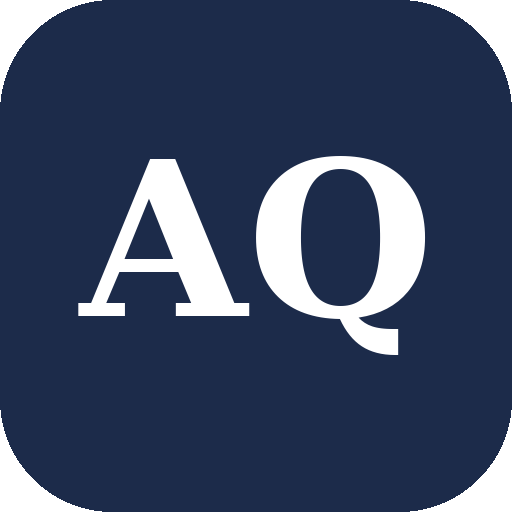
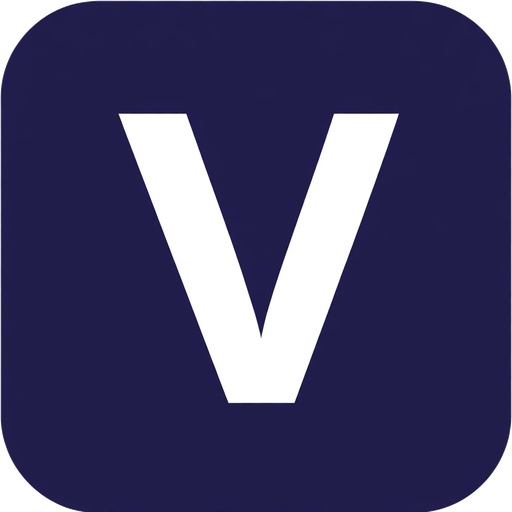
Add files via upload

diff --git a/index.html b/index.html
@@ -7,13 +7,17 @@ window.onerror = function(msg, url, line, col, error) {
   return true;
 };
 </script>
+<script>
+/* Single place for the product name. Change here, not in the text below. */
+window.BRAND = { name: "VeniXtus", legal: "VENIXTUS (Pty) Ltd", mark: "V", address: "32 Hill Street, Ferndale, Randburg, 2194", supportEmail: "Support@auditqmspro.com" /* change to the new domain when it is live */ };
+</script>
 <meta charset="UTF-8" />
 <meta name="viewport" content="width=device-width, initial-scale=1.0" />
-<title>AuditQMS Pro Suite</title>
+<title>VeniXtus</title>
 <link rel="manifest" href="manifest.json">
 <link rel="icon" type="image/png" sizes="32x32" href="favicon-32.png">
 <link rel="apple-touch-icon" href="apple-touch-icon.png">
-<meta name="apple-mobile-web-app-title" content="AuditQMS Pro Suite">
+<meta name="apple-mobile-web-app-title" content="VeniXtus">
 <meta name="apple-mobile-web-app-capable" content="yes">
 <meta name="theme-color" content="#1c2b4a">
 <link rel="preconnect" href="https://fonts.googleapis.com">
@@ -27,7 +31,7 @@ window.onerror = function(msg, url, line, col, error) {
 /* ==========================================================================
    ohs-core.css
    Styling for OHS Act module (HIRA + Permit to Work) modals.
-   Palette pulled from the AuditQMS Pro Suite dashboard screenshot:
+   Palette pulled from the VeniXtus dashboard screenshot:
      cream background, navy header/headings, rust/brown accents,
      serif display font, thin tan borders, pill-style secondary buttons.
    Link this in <head>, after your main styles.css.
@@ -2521,7 +2525,7 @@ async function samMakePdf(r){
   const doc = new J({unit:'pt', format:'a4'}), who = (currentUser()&&currentUser().fullName)||'Unknown user', when = new Date();
   doc.setFontSize(14); doc.text('SAMRASS data sheet — '+(r.formType||'Report'), 40, 44);
   doc.setFontSize(8.5); doc.setTextColor(150,30,30);
-  doc.text('Prepared from the AuditQMS Pro Suite record. NOT the official DMRE form: transcribe onto, or attach to, the current official form.', 40, 60, {maxWidth:515});
+  doc.text('Prepared from the VeniXtus record. NOT the official DMRE form: transcribe onto, or attach to, the current official form.', 40, 60, {maxWidth:515});
   doc.setTextColor(0,0,0);
   const sec = (t,rows)=>{ const body = rows.filter(x=>x[1]!==undefined && x[1]!==null && String(x[1]).trim()!=='').map(x=>[x[0],String(x[1])]); if(!body.length) return; doc.autoTable({startY:(doc.lastAutoTable?doc.lastAutoTable.finalY+10:76), head:[[t,'']], body, theme:'grid', styles:{fontSize:8.5,cellPadding:3}, headStyles:{fillColor:[40,60,90]}, columnStyles:{0:{cellWidth:150,fontStyle:'bold'}}, margin:{left:40,right:40}}); };
   sec('Identification',[['Record ID',r.id],['Internal reference',r.internalRef],['Form type',r.formType],['Stage',r.status],['Mine / shaft / section',r.mineSection]]);
@@ -5134,7 +5138,7 @@ function renderCapaApprovalTab(){
 }
 
 /* ==========================================================================
-   AuditQMS Pro Suite â€” CAPA CONSOLIDATION BLOCK
+   VeniXtus â€” CAPA CONSOLIDATION BLOCK
    --------------------------------------------------------------------------
    Paste this AFTER your existing "CAPA Approval & Appeal Workflow" section.
 
@@ -7678,8 +7682,8 @@ function migrateAuditNumbers(){
 function ensureStateDefaults(){
   if(!state.companySettings){
     state.companySettings = {
-      name: "AuditQMS Pro Suite (Pty) Ltd",
-      address: "12 Pretoria Road, Kempton Park, 1619",
+      name: BRAND.legal,
+      address: BRAND.address,
       email: "Support@auditqmspro.com",
       footerText: "",
       logoDataUrl: "",
@@ -7687,9 +7691,11 @@ function ensureStateDefaults(){
     };
   }
   if(state.companySettings && state.companySettings.name === "SYDA MABEKA (PTY) LTD"){
-    state.companySettings.name = "AuditQMS Pro Suite (Pty) Ltd";
-    state.companySettings.address = "12 Pretoria Road, Kempton Park, 1619";
+    state.companySettings.name = BRAND.legal;
+    state.companySettings.address = BRAND.address;
   }
+  if(state.companySettings.address === "12 Pretoria Road, Kempton Park, 1619"){ state.companySettings.address = BRAND.address; }
+  if(state.companySettings.name === "AuditQMS Pro Suite (Pty) Ltd"){ state.companySettings.name = BRAND.legal; }
   if(!state.companySettings.email){ state.companySettings.email = "Support@auditqmspro.com"; }
   if(state.companySettings.nextManagementReviewDate===undefined){ state.companySettings.nextManagementReviewDate = ""; }
   if(!state.riskAssessments){ state.riskAssessments = []; }
@@ -9865,10 +9871,10 @@ function renderLoginScreen(){
     <div style="min-height:100vh;display:flex;align-items:center;justify-content:center;padding:20px;background:var(--bg,#f6f3ee);">
       <div class="card p4" style="max-width:400px;width:100%;">
         <div style="text-align:center;margin-bottom:18px;">
-          <div class="logo" style="margin:0 auto 10px;">AQ</div>
-          <h1 class="serif" style="font-size:20px;margin:0;">AuditQMS Pro Suite</h1>
+          <div class="logo" style="margin:0 auto 10px;">V</div>
+          <h1 class="serif" style="font-size:20px;margin:0;">VeniXtus</h1>
           <p class="muted-italic" style="font-size:12px;margin-top:2px;">${title}</p>
-          ${cloudReady() ? `<p class="muted-italic" style="font-size:11px;margin-top:4px;">🔒 Secured by Supabase Auth</p>` : ''}
+          
         </div>
         ${loginError ? `<div class="card p4" style="background:#fdecea;border-color:var(--rust);margin-bottom:12px;"><p style="color:var(--rust);font-size:13px;margin:0;">${esc(loginError)}</p></div>` : ''}
         ${cloudReady() && cloudStatus ? `<div class="card p4" style="background:${cloudStatus.startsWith('⚠')?'#fdecea':'#e8f5e9'};margin-bottom:12px;"><p style="font-size:13px;margin:0;">${esc(cloudStatus)}</p></div>` : ''}
@@ -10160,8 +10166,8 @@ function render(){
       <header>
         <div class="wrap headrow">
           <div class="brand">
-            <div class="logo">AQ</div>
-            <div><h1>AuditQMS Pro Suite</h1><p>Integrated SHEQ Management Platform</p></div>
+            <div class="logo">V</div>
+            <div><h1>VeniXtus</h1><p>Integrated SHEQ Management Platform</p></div>
           </div>
           <div style="display:flex;align-items:center;gap:10px;flex-wrap:wrap;">
             ${CLIENT_WORKSPACES_ENABLED
@@ -14528,7 +14534,7 @@ function renderQualityCycle(){
     {icon:"📋", tag:"PLAN", title:"New Audit Plan — Cycle Starts Again", items:[]}
   ];
   return `
-    <h2 class="serif" style="font-size:18px;margin:0 0 6px;">AuditQMS Pro Suite — Continuous Improvement Cycle</h2>
+    <h2 class="serif" style="font-size:18px;margin:0 0 6px;">VeniXtus — Continuous Improvement Cycle</h2>
     <p class="muted-italic" style="font-size:12px;margin:0 0 16px;">The Plan–Do–Check–Act (PDCA) loop this app is built around.</p>
     <div>
       ${stages.map((s,i)=>`
@@ -14565,9 +14571,9 @@ function renderQualityCycle(){
 /* ---------- settings ---------- */
 const SETTINGS_SECTIONS = [
   { key:"about", label:"About", content: `
-    <p><strong>AuditQMS Pro Suite</strong> — Version ${APP_VERSION}</p>
-    <p>AuditQMS Pro Suite is a professional offline Quality Management System (QMS) designed to simplify auditing, inspections, compliance management, and Corrective and Preventive Action (CAPA) tracking. It helps organizations replace paper-based audit processes with a secure, digital, and fully offline solution.</p>
-    <p>Built as a Progressive Web App (PWA), AuditQMS Pro Suite provides reliable access on desktops, tablets, and mobile devices without requiring a constant internet connection. It supports organizations across industries including food & beverage, pharmaceutical, cosmetics, manufacturing, warehousing & logistics, laboratories, healthcare, and other compliance-driven environments.</p>
+    <p><strong>VeniXtus</strong> — Version ${APP_VERSION}</p>
+    <p>VeniXtus is a professional offline Quality Management System (QMS) designed to simplify auditing, inspections, compliance management, and Corrective and Preventive Action (CAPA) tracking. It helps organizations replace paper-based audit processes with a secure, digital, and fully offline solution.</p>
+    <p>Built as a Progressive Web App (PWA), VeniXtus provides reliable access on desktops, tablets, and mobile devices without requiring a constant internet connection. It supports organizations across industries including food & beverage, pharmaceutical, cosmetics, manufacturing, warehousing & logistics, laboratories, healthcare, and other compliance-driven environments.</p>
     <p><strong>Key Features</strong></p>
     <ul>
       <li>Audit Management</li><li>Dynamic Audit Templates</li><li>CAPA Management</li>
@@ -14607,18 +14613,18 @@ const SETTINGS_SECTIONS = [
       <li>National Diploma in Food Science &amp; Nutrition — Walter Sisulu University</li>
       <li>Software Engineering Bootcamp — Stellenbosch University in partnership with HyperionDev</li>
     </ul>
-    <p>AuditQMS Pro Suite was developed by combining practical experience in quality assurance, food safety, and compliance with modern software engineering to provide organizations with an efficient, reliable, and user-friendly digital audit management solution.</p>
+    <p>VeniXtus was developed by combining practical experience in quality assurance, food safety, and compliance with modern software engineering to provide organizations with an efficient, reliable, and user-friendly digital audit management solution.</p>
   `},
   { key:"company", label:"Company", content: `
-    <p><strong>Company:</strong> AuditQMS Pro Suite (Pty) Ltd</p>
-    <p><strong>Business Address:</strong><br/>12 Pretoria Road<br/>Kempton Park<br/>1619</p>
+    <p><strong>Company:</strong> VENIXTUS (Pty) Ltd</p>
+    <p><strong>Business Address:</strong><br/>32 Hill Street<br/>Ferndale<br/>Randburg<br/>2194</p>
   `},
   { key:"contact", label:"Contact", content: `
     <p>For support, questions, or feedback:</p>
     <p><a href="mailto:Support@auditqmspro.com">Support@auditqmspro.com</a></p>
   `},
   { key:"privacy", label:"Privacy Policy", content: `
-    <p><strong>Local data.</strong> AuditQMS Pro Suite is offline-first by default. Audit records, findings, CAPA records, risks, documents, client workspaces, and company settings are stored locally on your device using browser storage. This data is never sent anywhere unless you choose to use Cloud Sync (below).</p>
+    <p><strong>Local data.</strong> VeniXtus is offline-first by default. Audit records, findings, CAPA records, risks, documents, client workspaces, and company settings are stored locally on your device using browser storage. This data is never sent anywhere unless you choose to use Cloud Sync (below).</p>
     <p><strong>Cloud Sync (optional).</strong> If you choose to sign in and use Cloud Sync, we collect your email address and password to create an account, and — only when you tap "Backup to Cloud" — the data for your currently active workspace is transmitted to and stored by Supabase, our database provider, hosted in the EU (Frankfurt, Germany). This is entirely optional; the app works fully offline without ever creating an account.</p>
     <p><strong>Security.</strong> Cloud-stored data is protected by database-level access rules (Row Level Security) ensuring only your own logged-in account can read or write your data. Data is transmitted over encrypted HTTPS connections.</p>
     <p><strong>Third-party resources.</strong> The app loads a small number of third-party resources over the internet: Google Fonts, the Chart.js and SheetJS libraries (for analytics charts and Excel export), and — only if Cloud Sync is used — Supabase. These providers do not receive your audit data unless you've enabled Cloud Sync as described above.</p>
@@ -14630,9 +14636,9 @@ const SETTINGS_SECTIONS = [
     <p>Questions about this policy, or requests to delete your data, can be sent to <a href="mailto:Support@auditqmspro.com">Support@auditqmspro.com</a>.</p>
   `},
   { key:"version", label:"App Version", content: `
-    <p><strong>AuditQMS Pro Suite — Version ${APP_VERSION}</strong></p>
-    <p style="margin-top:14px;">© 2026 AuditQMS Pro Suite (Pty) Ltd. All rights reserved.</p>
-    <p>AuditQMS Pro Suite is proprietary software developed and maintained by AuditQMS Pro Suite (Pty) Ltd. Unauthorized copying, modification, or distribution of this software without written permission is prohibited.</p>
+    <p><strong>VeniXtus — Version ${APP_VERSION}</strong></p>
+    <p style="margin-top:14px;">© 2026 VENIXTUS (Pty) Ltd. All rights reserved.</p>
+    <p>VeniXtus is proprietary software developed and maintained by VENIXTUS (Pty) Ltd. Unauthorized copying, modification, or distribution of this software without written permission is prohibited.</p>
   `}
 ];
 
@@ -14741,8 +14747,8 @@ function buildMetricsPrintReport(){
   const c = state.companySettings || {};
   const logoHtml = c.logoDataUrl
     ? `<img src="${c.logoDataUrl}" style="max-height:44px;max-width:120px;" />`
-    : `<div style="width:40px;height:40px;border-radius:9px;background:#1c2b4a;color:#fff;display:flex;align-items:center;justify-content:center;font-weight:700;font-family:sans-serif;">AQ</div>`;
-  const brandName = c.name ? esc(c.name) : "AuditQMS Pro Suite";
+    : `<div style="width:40px;height:40px;border-radius:9px;background:#1c2b4a;color:#fff;display:flex;align-items:center;justify-content:center;font-weight:700;font-family:sans-serif;">V</div>`;
+  const brandName = c.name ? esc(c.name) : BRAND.name;
 
   document.getElementById('print-report').innerHTML = `
     <div style="display:flex;align-items:center;gap:10px;margin-bottom:10px;">
@@ -14757,7 +14763,7 @@ function buildMetricsPrintReport(){
     </div>
     ${sectionsHtml}
     <div style="margin-top:24px;padding-top:10px;border-top:1px solid #ddd;font-size:10px;color:#777;text-align:center;">
-      Generated by AuditQMS Pro Suite ${APP_VERSION}
+      Generated by VeniXtus ${APP_VERSION}
     </div>
   `;
 }
@@ -14771,8 +14777,8 @@ function buildMicroCertificatePrintReport(recordId){
   const c = state.companySettings || {};
   const logoHtml = c.logoDataUrl
     ? `<img src="${c.logoDataUrl}" style="max-height:44px;max-width:120px;" />`
-    : `<div style="width:40px;height:40px;border-radius:9px;background:#1c2b4a;color:#fff;display:flex;align-items:center;justify-content:center;font-weight:700;font-family:sans-serif;">AQ</div>`;
-  const brandName = c.name ? esc(c.name) : "AuditQMS Pro Suite";
+    : `<div style="width:40px;height:40px;border-radius:9px;background:#1c2b4a;color:#fff;display:flex;align-items:center;justify-content:center;font-weight:700;font-family:sans-serif;">V</div>`;
+  const brandName = c.name ? esc(c.name) : BRAND.name;
   const brandAddress = c.address ? `<div class="meta">${esc(c.address)}${c.email?` &nbsp;·&nbsp; ${esc(c.email)}`:''}</div>` : (c.email ? `<div class="meta">${esc(c.email)}</div>` : '');
 
   const blocks = group.map(r => `
@@ -14840,8 +14846,8 @@ function buildMgmtReviewPrintReport(){
   const c = state.companySettings || {};
   const logoHtml = c.logoDataUrl
     ? `<img src="${c.logoDataUrl}" style="max-height:44px;max-width:120px;" />`
-    : `<div style="width:40px;height:40px;border-radius:9px;background:#1c2b4a;color:#fff;display:flex;align-items:center;justify-content:center;font-weight:700;font-family:sans-serif;">AQ</div>`;
-  const brandName = c.name ? esc(c.name) : "AuditQMS Pro Suite";
+    : `<div style="width:40px;height:40px;border-radius:9px;background:#1c2b4a;color:#fff;display:flex;align-items:center;justify-content:center;font-weight:700;font-family:sans-serif;">V</div>`;
+  const brandName = c.name ? esc(c.name) : BRAND.name;
   const row = (label, value) => `<tr><th>${esc(label)}</th><td>${value===null||value===undefined?'—':esc(String(value))}</td></tr>`;
   const mrAppr = ((window.__mr && window.__mr.rows) || []).find(x=>x.status==='approved');
   const latestMeeting = mrAppr ? { date: mrAppr.meeting_date + ' (' + mrAppr.ref + ')', attendees: (mrAppr.attendees||[]).map(a=>a.name).join(', '),
@@ -14901,7 +14907,7 @@ function buildMgmtReviewPrintReport(){
       </tbody></table>
     ` : `<p>No meetings logged yet.</p>`}
     <div style="margin-top:24px;padding-top:10px;border-top:1px solid #ddd;font-size:10px;color:#777;text-align:center;">
-      Generated by AuditQMS Pro Suite ${APP_VERSION}
+      Generated by VeniXtus ${APP_VERSION}
     </div>
   `;
 }
@@ -15053,8 +15059,8 @@ async function buildAuditPrintReport(a){
   const c = state.companySettings || {};
   const logoHtml = c.logoDataUrl
     ? `<img src="${c.logoDataUrl}" style="max-height:44px;max-width:120px;" />`
-    : `<div style="width:40px;height:40px;border-radius:9px;background:#1c2b4a;color:#fff;display:flex;align-items:center;justify-content:center;font-weight:700;font-family:sans-serif;">AQ</div>`;
-  const brandName = c.name ? esc(c.name) : "AuditQMS Pro Suite";
+    : `<div style="width:40px;height:40px;border-radius:9px;background:#1c2b4a;color:#fff;display:flex;align-items:center;justify-content:center;font-weight:700;font-family:sans-serif;">V</div>`;
+  const brandName = c.name ? esc(c.name) : BRAND.name;
   const brandAddress = c.address ? `<div class="meta">${esc(c.address)}${c.email?` &nbsp;·&nbsp; ${esc(c.email)}`:''}</div>` : (c.email ? `<div class="meta">${esc(c.email)}</div>` : '');
 
   document.getElementById('print-report').innerHTML = `
@@ -15103,7 +15109,7 @@ async function buildAuditPrintReport(a){
       </div>
     </div>
     <div style="margin-top:24px;padding-top:10px;border-top:1px solid #ddd;font-size:10px;color:#777;text-align:center;">
-      ${c.footerText ? esc(c.footerText) + ' &nbsp;·&nbsp; ' : ''}${a.auditNumber?esc(a.auditNumber)+' &nbsp;·&nbsp; ':''}Generated by AuditQMS Pro Suite ${APP_VERSION}
+      ${c.footerText ? esc(c.footerText) + ' &nbsp;·&nbsp; ' : ''}${a.auditNumber?esc(a.auditNumber)+' &nbsp;·&nbsp; ':''}Generated by VeniXtus ${APP_VERSION}
     </div>
   `;
 }
@@ -18098,7 +18104,7 @@ function attachHandlers(){
         if(!data.audits) throw new Error("Invalid backup file");
         if(!confirm("Restoring will replace all current audits with the backup file. Continue?")) { restoreFileInput.value = ""; return; }
         state = data; openAuditId=null; persist(); render();
-      }catch(e){ alert("Could not read this file — please check it's a valid AuditQMS backup."); }
+      }catch(e){ alert("Could not read this file — please check it's a valid VeniXtus backup."); }
       restoreFileInput.value = "";
     };
     reader.readAsText(file);
@@ -18163,7 +18169,7 @@ function showUpdateBanner(){
   const banner = document.createElement('div');
   banner.id = 'update-banner';
   banner.style.cssText = 'position:fixed;bottom:0;left:0;right:0;background:#1c2b4a;color:#fff;padding:12px 16px;display:flex;justify-content:space-between;align-items:center;z-index:200;font-family:sans-serif;font-size:13px;gap:10px;';
-  banner.innerHTML = '<span>A new version of AuditQMS Pro Suite is available.</span><button id="reload-app-btn" style="background:#fff;color:#1c2b4a;border:none;padding:6px 12px;border-radius:6px;cursor:pointer;font-weight:600;font-size:13px;">Reload</button>';
+  banner.innerHTML = '<span>A new version of VeniXtus is available.</span><button id="reload-app-btn" style="background:#fff;color:#1c2b4a;border:none;padding:6px 12px;border-radius:6px;cursor:pointer;font-weight:600;font-size:13px;">Reload</button>';
   document.body.appendChild(banner);
   document.getElementById('reload-app-btn').onclick = () => window.location.reload();
 }
@@ -22353,7 +22359,7 @@ function showUpdateBanner(){
         '<button onclick="window.print()">Print / Save as PDF</button>' +
         '<h1>Recall evidence pack: ' + e(c.recall_number) + '</h1><div>' + e(c.title) + '</div>' +
         '<div class="banner ' + (isMock(c) ? 'mock' : 'live') + '">' + (isMock(c) ? 'EXERCISE ONLY — NOT A LIVE RECALL' : 'LIVE EVENT') + ' · Status: ' + e(String((STATUS[c.status] || [c.status])[0])) + '</div>' +
-        '<p class="note">Generated ' + e(new Date().toLocaleString()) + (who ? ' by ' + e(who) : '') + '. This pack lists the records held in AuditQMS Pro Suite. Evidence files are listed with their SHA-256 fingerprints; the files themselves are downloaded separately from the recall. The classification below is the organisation’s own, not an authority’s formal classification.</p>' +
+        '<p class="note">Generated ' + e(new Date().toLocaleString()) + (who ? ' by ' + e(who) : '') + '. This pack lists the records held in VeniXtus. Evidence files are listed with their SHA-256 fingerprints; the files themselves are downloaded separately from the recall. The classification below is the organisation’s own, not an authority’s formal classification.</p>' +
         '<h2>1. Decision and assessment</h2><table>' + kvr('Mode', lbl(MODE, c.mode)) + kvr('Scope of action', lbl(SCOPE, c.scope)) + kvr('Product', c.product_name) + kvr('Reason', c.reason) + kvr('Hazard', c.hazard_description) +
         kvr('Internal classification', lbl(CLASS, c.classification)) + kvr('Basis for the classification', c.classification_basis) + kvr('Vulnerable consumers', c.vulnerable_consumers ? 'Yes: ' + (c.vulnerable_note || '') : 'No') +
         kvr('Trigger', (c.source_type || '') + (c.source_note ? ' — ' + c.source_note : '')) + kvr('Linked complaint / incident', c.linked_complaint_ref) + kvr('Site / line', [c.site, c.production_line].filter(Boolean).join(' · ')) +
@@ -25292,7 +25298,7 @@ function showUpdateBanner(){
     var asTone = !site ? 'neutral' : (site.assessment === 'adequate' ? 'green' : site.assessment === 'inadequate' ? 'rust' : site.assessment === 'partly_adequate' ? 'amber' : 'neutral');
     var hist = open ? F.history.filter(function(h){ return h.map_key === key; }) : [];
     return '<div style="padding:10px 0;border-bottom:1px solid var(--line2);"><div style="display:flex;justify-content:space-between;align-items:flex-start;gap:8px;flex-wrap:wrap;"><div style="min-width:0;font-size:13px;"><strong>' + e(c.clause) + '</strong> — ' + e(c.title) + '</div>' +
-      '<div class="flex-wrap" style="gap:4px;">' + tag(sp[0], 'Software: ' + sp[1], 'What AuditQMS offers for this requirement across all customers. It is not a conformity rating.') + (c.v ? tag('green', 'Reference checked', 'Number and heading checked against the published text on 24 Oct 2026. Confirm against the official document before relying on it.') : tag('amber', 'Provisional', 'Not yet verified against the exact edition. Confirm before relying on it.')) + '</div></div>' +
+      '<div class="flex-wrap" style="gap:4px;">' + tag(sp[0], 'Software: ' + sp[1], 'What VeniXtus offers for this requirement across all customers. It is not a conformity rating.') + (c.v ? tag('green', 'Reference checked', 'Number and heading checked against the published text on 24 Oct 2026. Confirm against the official document before relying on it.') : tag('amber', 'Provisional', 'Not yet verified against the exact edition. Confirm before relying on it.')) + '</div></div>' +
       '<div class="flex-wrap" style="margin-top:6px;gap:6px;">' + c.primary.map(function(m){ return moduleChip(m); }).join('') + c.supporting.map(function(m){ return '<span style="opacity:.6;">' + moduleChip(m) + '</span>'; }).join('') + '</div>' +
       (ev.length ? '<div class="muted-italic" style="font-size:11.5px;margin-top:4px;">Evidence to look for: ' + ev.map(e).join(' · ') + '</div>' : '') +
       '<div class="flex-wrap" style="margin-top:6px;gap:6px;align-items:center;">' + tag('neutral', 'Site: ' + impl) + tag(asTone, 'Evidence: ' + asTag) + (site ? '<span class="muted-italic" style="font-size:11px;">' + e(person(site.assessed_by)) + ' · ' + e(when(site.created_at)) + '</span>' : '') +
@@ -25306,7 +25312,7 @@ function showUpdateBanner(){
       var k = counts(), list = rows(), byStd = {};
       list.forEach(function(r){ (byStd[r.std.sid] = byStd[r.std.sid] || { std:r.std, rows:[] }).rows.push(r); });
       var out = '<div style="display:flex;align-items:center;justify-content:space-between;flex-wrap:wrap;gap:8px;margin-bottom:8px;"><h2 class="serif" style="font-size:18px;margin:0;">📐 Standards & Compliance Framework</h2></div>' +
-        '<p class="muted-italic" style="margin:0 0 6px;font-size:13px;">Maps selected requirements to supporting AuditQMS functions and evidence. Mapping does not establish conformity, legal compliance, certification or accreditation.</p>' +
+        '<p class="muted-italic" style="margin:0 0 6px;font-size:13px;">Maps selected requirements to supporting VeniXtus functions and evidence. Mapping does not establish conformity, legal compliance, certification or accreditation.</p>' +
         '<p class="muted-italic" style="margin:0 0 12px;font-size:12px;">Three separate questions are shown for every requirement: what the software offers (the same for every customer), what your site has implemented, and whether someone reviewed adequate evidence. This library lists <strong>selected requirements</strong>, not the complete standards. Parent headings and detailed clauses are both listed, so the counts below are not a measure of coverage. Rows marked Provisional have not yet been verified against the exact edition.</p>' +
         (F.installed ? '' : '<div class="card p4" style="background:#fff4e5;border-color:var(--amber);margin-bottom:10px;"><p style="margin:0;font-size:12.5px;">Site assessments are not installed yet. Run fw_framework_run_this.sql in Supabase to record site implementation and evidence assessments. The mapping below still works.</p></div>') +
         '<div class="flex-wrap" style="gap:8px;margin-bottom:10px;">' + tile(k.total, 'selected requirements listed') + tile(k.avail + ' / ' + k.part + ' / ' + k.lim, 'software: available / partly / limited') + tile(k.ver + ' / ' + k.prov, 'reference checked / provisional') + tile(k.impl, 'implemented at your site') + tile(k.assessed + ' (' + k.adequate + ' adequate)', 'evidence assessed') + tile(k.notAssessed, 'not yet assessed') + '</div>' +
